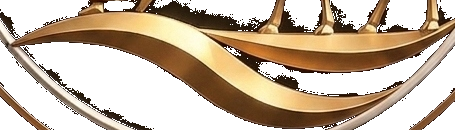
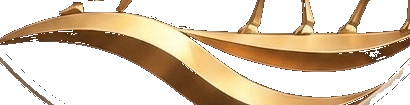
fix: remove all silver ring segments and black crop box artifacts from 3D metallic PNG assets for seamless animation

diff --git a/src/components/DesertCaravan.tsx b/src/components/DesertCaravan.tsx
@@ -4,14 +4,14 @@ import { Compass, Star, ShieldCheck, Users } from 'lucide-react';
 
 export default function DesertCaravan() {
   return (
-    <div className="relative w-full overflow-hidden rounded-3xl bg-gradient-to-br from-[#18110C] via-[#261A12] to-[#0F0A07] border border-amber-500/25 shadow-2xl p-6 sm:p-12 my-6 text-amber-50 group selection:bg-amber-500/30 min-h-[420px] flex flex-col justify-between">
+    <div className="relative w-full overflow-hidden rounded-3xl bg-gradient-to-br from-[#1C140F] via-[#2A1E18] to-[#120D0A] border border-amber-500/25 shadow-2xl p-6 sm:p-12 my-6 text-amber-50 group selection:bg-amber-500/30">
       
-      {/* 🌌 Expanded Background Ambient Gold Light Blur */}
-      <div className="absolute top-1/4 right-1/4 -translate-y-1/2 w-[500px] h-[500px] bg-amber-500/12 rounded-full blur-3xl pointer-events-none" />
-      <div className="absolute -bottom-20 -left-20 w-96 h-96 bg-amber-600/10 rounded-full blur-3xl pointer-events-none" />
+      {/* Background Ambient Gold Light Blur */}
+      <div className="absolute top-1/4 right-1/4 -translate-y-1/2 w-96 h-96 bg-amber-500/12 rounded-full blur-3xl pointer-events-none" />
+      <div className="absolute -bottom-10 -left-10 w-72 h-72 bg-amber-600/10 rounded-full blur-2xl pointer-events-none" />
 
-      {/* ✨ Expanded Twinkling Starry Night Backdrop Across Entire Width */}
-      <div className="absolute inset-0 overflow-hidden pointer-events-none opacity-85">
+      {/* Twinkling Starry Night Backdrop Across Entire Width */}
+      <div className="absolute inset-0 overflow-hidden pointer-events-none opacity-80">
         <div className="absolute top-6 left-12 w-2 h-2 rounded-full bg-amber-300 animate-twinkle-fast" />
         <div className="absolute top-16 left-1/4 w-2.5 h-2.5 rounded-full bg-amber-200 animate-twinkle-slow" />
         <div className="absolute top-8 left-1/2 w-2 h-2 rounded-full bg-amber-400 animate-twinkle-fast" />
@@ -56,39 +56,37 @@ export default function DesertCaravan() {
           </div>
         </div>
 
-        {/* Right Column: Animated 3D Metallic Guide Star (No Circle Frame) */}
-        <div className="lg:col-span-5 flex flex-col items-center justify-center relative min-h-[300px]">
+        {/* Right Column: Clean 3D Metallic Guide Star, Man & Camel Animations */}
+        <div className="lg:col-span-5 flex flex-col items-center justify-between relative min-h-[340px] pt-4">
           
-          {/* 🌟 1. Animated 3D Metallic North Guide Star from user photo */}
-          <div className="relative animate-guide-star z-20 mb-4">
-            {/* Glowing Star Halo */}
-            <div className="absolute -inset-4 bg-amber-400/35 rounded-full blur-xl animate-pulse" />
-            
+          {/* 🌟 1. Clean 3D Metallic North Guide Star */}
+          <div className="relative animate-guide-star z-20 mb-2">
+            <div className="absolute -inset-4 bg-amber-400/30 rounded-full blur-xl animate-pulse pointer-events-none" />
             <img
               src="/gold-star-3d.png"
               alt="3D Metallic Golden Guide Star"
-              className="w-28 h-28 sm:w-36 sm:h-36 object-contain drop-shadow-[0_0_25px_rgba(251,191,36,0.95)]"
+              className="w-24 h-24 sm:w-32 sm:h-32 object-contain drop-shadow-[0_0_20px_rgba(251,191,36,0.9)]"
             />
           </div>
 
-          {/* 🌊 Expanded Dune Line & Walking 3D Caravan at Bottom */}
-          <div className="w-full relative flex flex-col items-center justify-end mt-auto pt-6">
+          {/* 🌊 2. Clean 3D Walking Caravan & Sand Dune Base */}
+          <div className="w-full relative flex flex-col items-center justify-end z-20 mt-auto">
             
-            {/* 🚶 🐫 Animated 3D Man & Camel Caravan Walking Group */}
-            <div className="relative flex items-end justify-center gap-3 animate-caravan z-20 mb-2">
+            {/* 🚶 🐫 Walking 3D Man & Camel */}
+            <div className="relative flex items-end justify-center gap-2 animate-caravan z-20 -mb-2">
               
               {/* 3D Metallic Man in Robes */}
-              <div className="animate-man-walk flex flex-col items-center z-10">
+              <div className="animate-man-walk flex flex-col items-center">
                 <img
                   src="/gold-man-3d.png"
-                  alt="3D Metallic Rahnamo (Guide)"
-                  className="h-20 sm:h-24 w-auto object-contain drop-shadow-[0_4px_12px_rgba(217,119,6,0.8)]"
+                  alt="3D Metallic Rahnamo Guide"
+                  className="h-16 sm:h-20 w-auto object-contain drop-shadow-[0_4px_10px_rgba(217,119,6,0.8)]"
                 />
               </div>
 
-              {/* Dynamic Rope Link */}
-              <svg className="w-12 h-6 text-amber-400/80 -mx-4 mb-5 z-10" viewBox="0 0 50 30" fill="none">
-                <path d="M5 10 Q25 28 45 12" stroke="currentColor" strokeWidth="2.2" strokeDasharray="3 2" />
+              {/* Dynamic Leash Connector */}
+              <svg className="w-10 h-5 text-amber-400/80 -mx-3 mb-3 z-10" viewBox="0 0 50 30" fill="none">
+                <path d="M5 10 Q25 28 45 12" stroke="currentColor" strokeWidth="2" strokeDasharray="3 2" />
               </svg>
 
               {/* 3D Metallic Low-Poly Golden Camel */}
@@ -96,17 +94,17 @@ export default function DesertCaravan() {
                 <img
                   src="/gold-camel-3d.png"
                   alt="3D Metallic Golden Camel"
-                  className="h-24 sm:h-30 w-auto object-contain drop-shadow-[0_6px_16px_rgba(217,119,6,0.9)]"
+                  className="h-20 sm:h-26 w-auto object-contain drop-shadow-[0_6px_14px_rgba(217,119,6,0.9)]"
                 />
               </div>
             </div>
 
-            {/* 3D Metallic Sand Dune Curve across entire right panel */}
-            <div className="w-full relative z-10 flex justify-center -mt-6">
+            {/* Clean 3D Metallic Sand Dune Curve Base */}
+            <div className="w-full relative z-10 flex justify-center">
               <img
                 src="/gold-dune-3d.png"
                 alt="3D Metallic Sand Dune Curve"
-                className="w-full max-w-md h-auto object-contain drop-shadow-lg opacity-90"
+                className="w-full max-w-sm sm:max-w-md h-auto object-contain drop-shadow-md"
               />
             </div>
 
